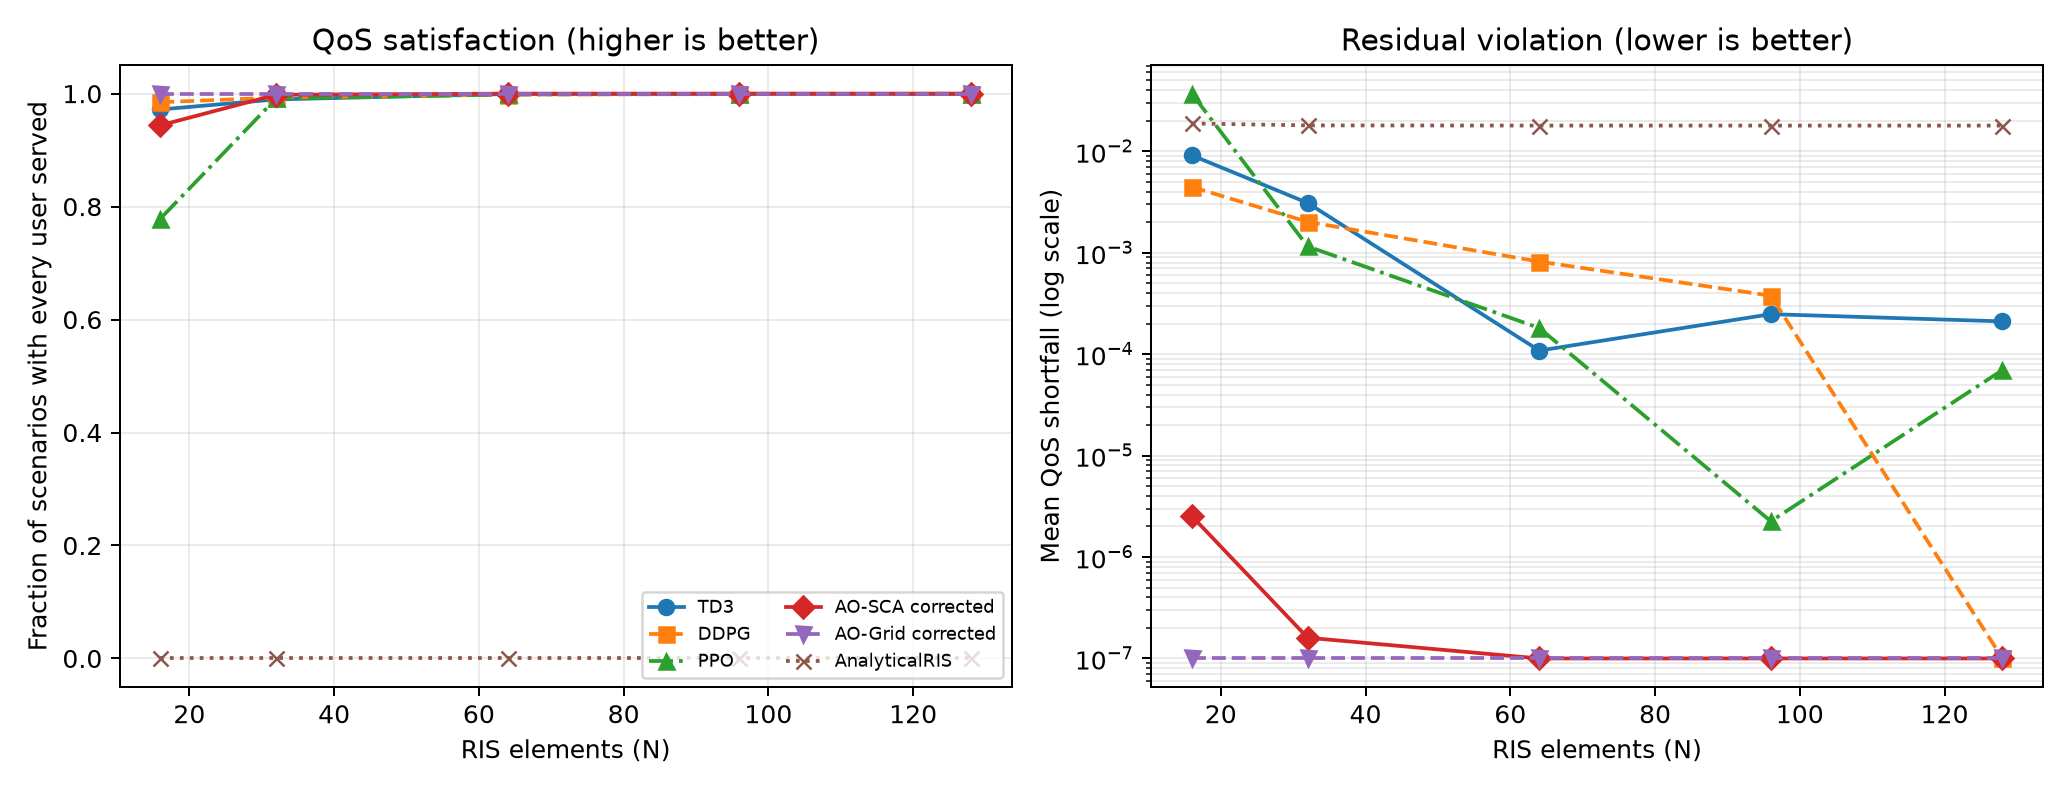
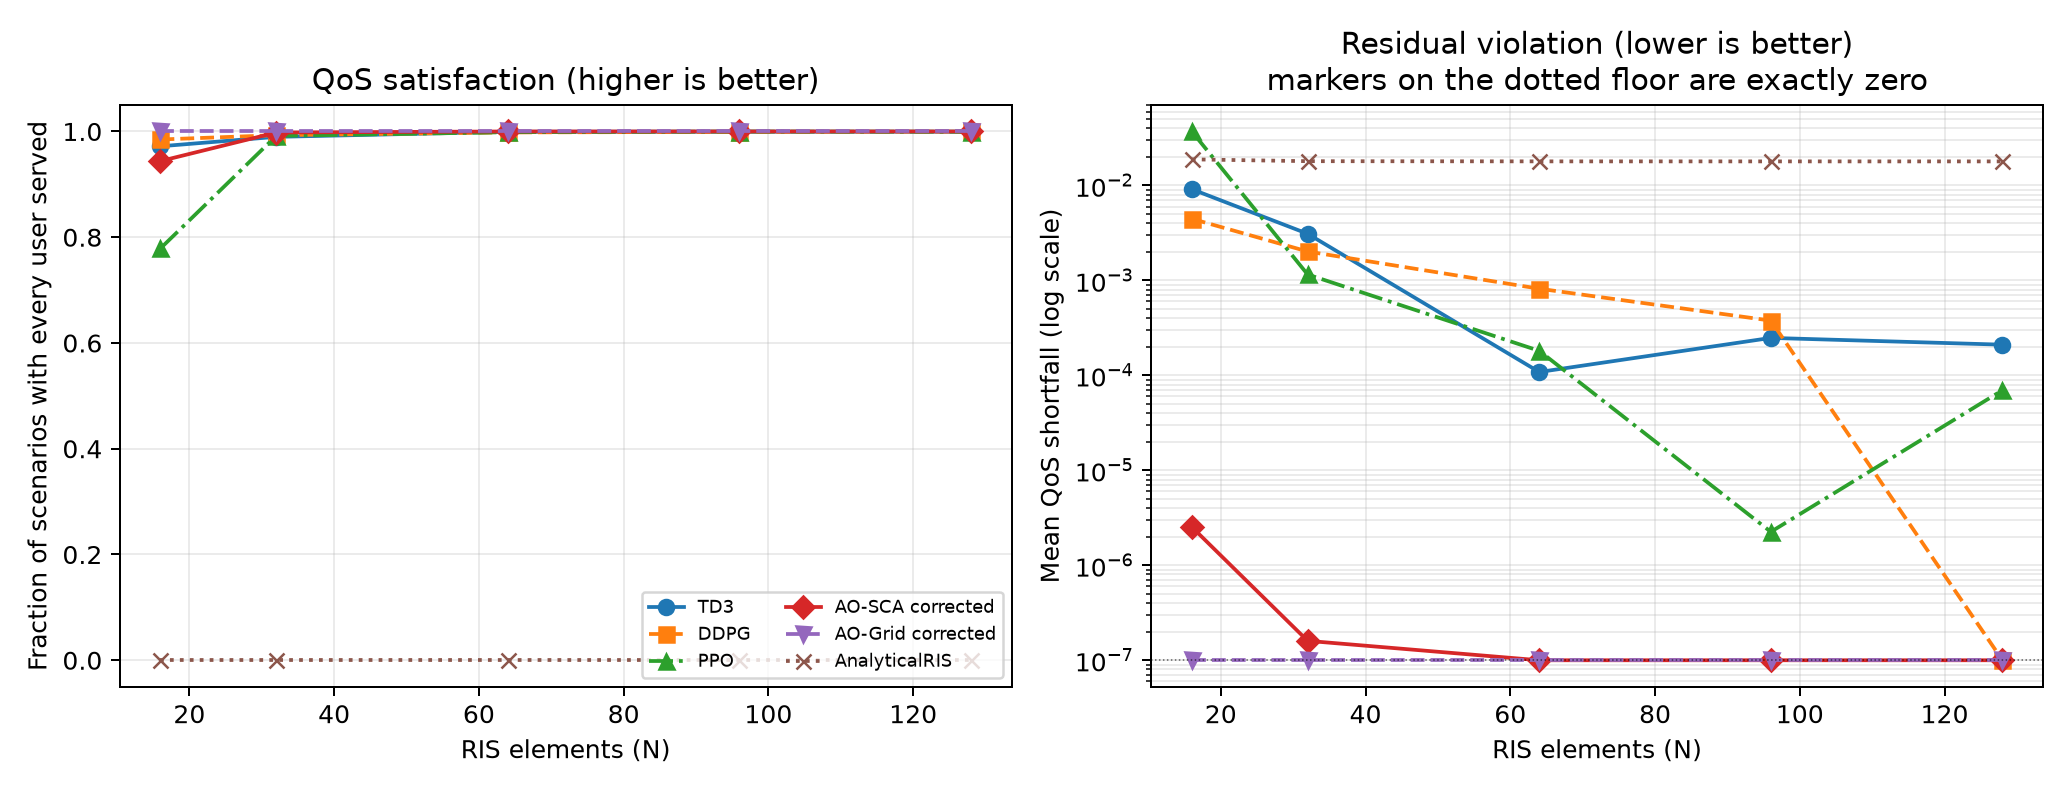
Fix the unterminated title string in the QoS figure
The previous commit shipped a syntax error: an escaped newline inside the
title collapsed into a real one. Tests caught it, but the run was piped
through tail so the failure did not stop the push.

diff --git a/scripts/build_physical_v6_full_report.py b/scripts/build_physical_v6_full_report.py
@@ -532,8 +532,11 @@ def plot_results(
         ylabel="Mean QoS shortfall (log scale)",
         # A log axis cannot draw zero, and both corrected solvers reach exactly
         # zero at most N, so say where they actually are.
-        title="Residual violation (lower is better)
-markers on the dotted floor are exactly zero",
+        title=(
+            "Residual violation (lower is better)"
+            + chr(10)
+            + "markers on the dotted floor are exactly zero"
+        ),
     )
     for ax in axes:
         ax.grid(alpha=0.25, which="both")
